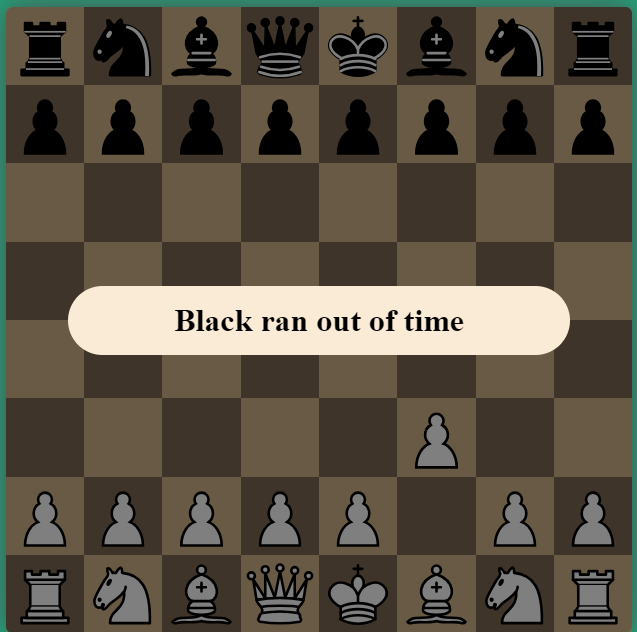
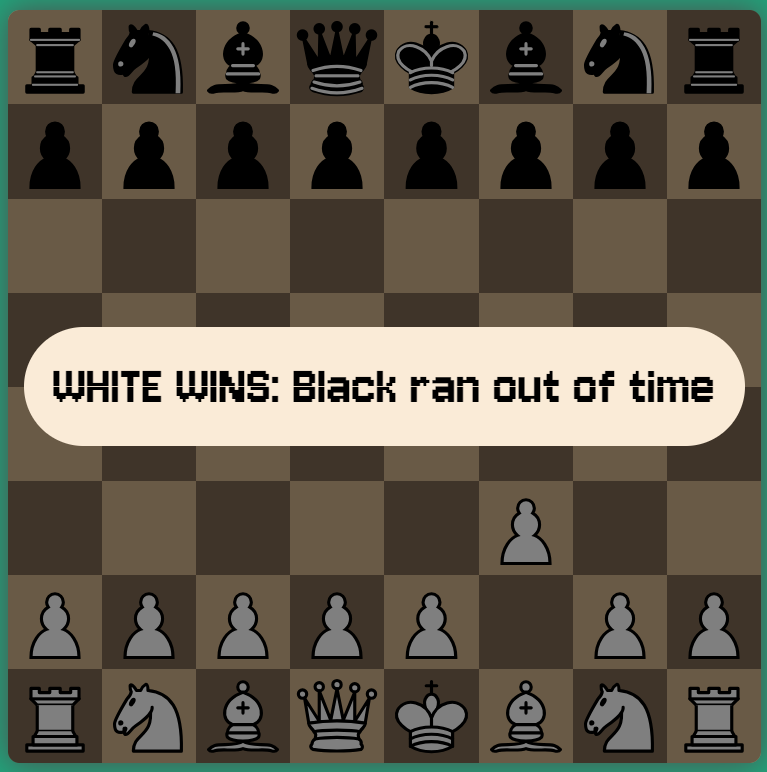
adding newer screenshots to readme file

diff --git a/assets/js/script.js b/assets/js/script.js
@@ -1077,18 +1077,19 @@ function checkEndConditions() {
     }
     if (!movesLeft) {
         if (isCheck(turn, document.getElementById(turn + 'King').parentNode.id)) {
-            gameEnding('Checkmate!!!!');
+            let winner = turn === 'white' ? 'BLACK' : 'WHITE';
+            gameEnding(`${winner} WINS: Checkmate!!!!`);
         }
         else {
-            gameEnding('Stalemate!!!!');
+            gameEnding('DRAW: Stalemate!!!!');
         }
     }
     if (movesSinceCapture >= 100) {
-        gameEnding('50 moves since last capture');
+        gameEnding('DRAW: 50 moves rule');
     }
     
     if (searchArray(repeatedPositions, boardState())) {
-        gameEnding('3 time repetition');
+        gameEnding('DRAW: 3 time repetition');
     }
 }
 
@@ -1227,7 +1228,7 @@ function countdown() {
         minutes.innerHTML = Math.floor(whiteSecondsLeft / 60).toString().padStart(2, '0');
         seconds.innerHTML = (whiteSecondsLeft % 60).toString().padStart(2, '0');
         if (whiteSecondsLeft === 0) {
-            gameEnding('White ran out of time');
+            gameEnding('BLACK WINS: White ran out of time');
         }
         whiteSecondsLeft--;
         
@@ -1236,7 +1237,7 @@ function countdown() {
         minutes.innerHTML = Math.floor(blackSecondsLeft / 60).toString().padStart(2, '0');
         seconds.innerHTML = (blackSecondsLeft % 60).toString().padStart(2, '0');
         if (blackSecondsLeft === 0) {
-            gameEnding('Black ran out of time');
+            gameEnding('WHITE WINS: Black ran out of time');
         }
         blackSecondsLeft--;
     }
